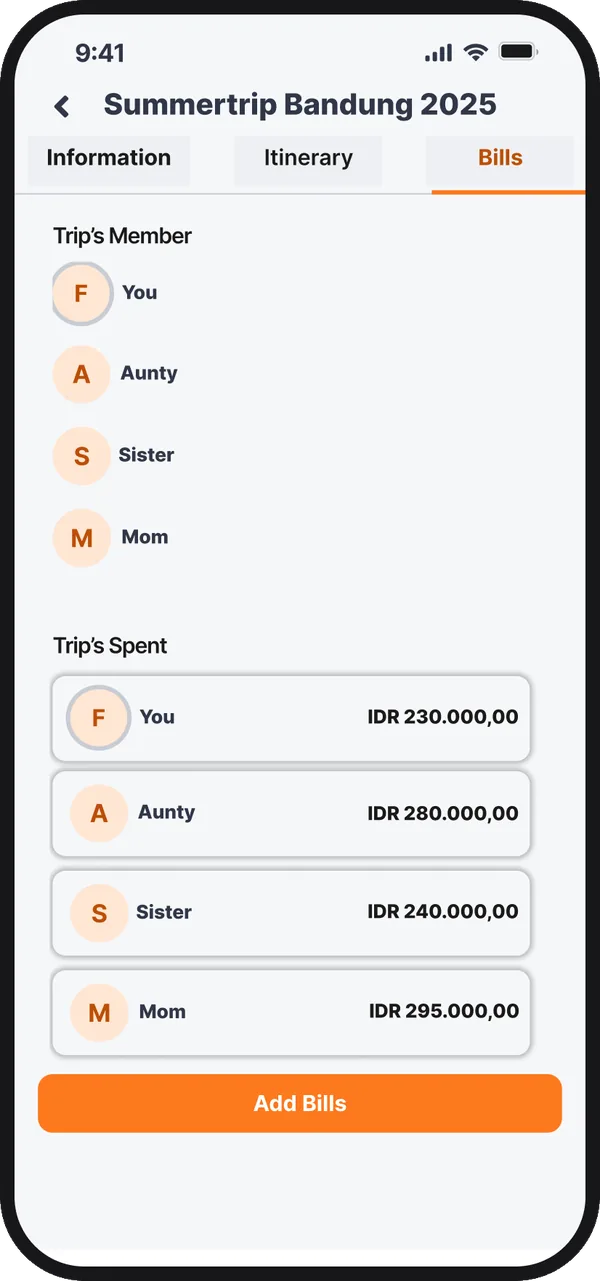
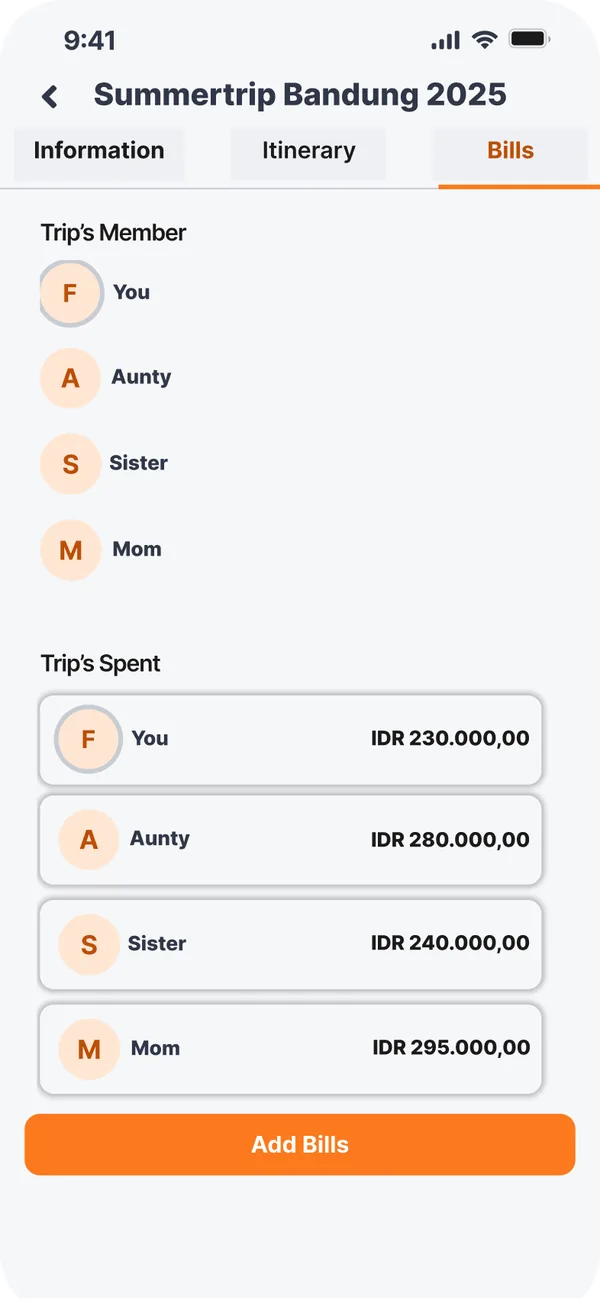
feat: frameless Holinery screens
Phones exported without a device bezel (rounded corners only); a new
optional figure.frameless adds a soft CSS drop shadow. Thumbnail now
shows the neutral hero with the orange accent panel.

Changed region(s): [[0.0, 0.0, 1.0, 1.0]]

diff --git a/src/content/caseStudies/holinery.js b/src/content/caseStudies/holinery.js
@@ -19,7 +19,7 @@ const phone = (name, alt, label) => ({
   alt,
   label,
   width: 600,
-  height: 1281,
+  height: 1316,
 });
 
 export const holinery = {
@@ -70,25 +70,25 @@ export const holinery = {
     stops: [
       { time: "08:00", label: "Explore", title: "Find a place worth going to",
         body: "Each row gives photo, area, rating, and a one-line description; the detail page adds address, phone number, and opening hours.",
-        figure: { images: [
+        figure: { frameless: true, images: [
           phone("explore-1", "Explore list of destinations with photos, areas, and descriptions", "Explore"),
           phone("explore-2", "Labuan Bajo destination detail with description and address", "Detail"),
         ] } },
       { time: "10:30", label: "Wishlist", title: "Keep it for later",
         body: "One tap on the heart saves a place, ready for the next plan.",
-        figure: { images: [ phone("explore-3", "Wishlist of saved places with heart buttons", "Wishlist") ] } },
+        figure: { frameless: true, images: [ phone("explore-3", "Wishlist of saved places with heart buttons", "Wishlist") ] } },
       { time: "12:15", label: "Create plan", title: "Start with the trip, not the places",
         body: "Name, dates, and travel partners come first; everything after hangs off this plan.",
-        figure: { images: [ phone("plan-1", "Create new plan form with trip name, dates, and travel partners", "Create plan") ] } },
+        figure: { frameless: true, images: [ phone("plan-1", "Create new plan form with trip name, dates, and travel partners", "Create plan") ] } },
       { time: "14:00", label: "Pick places", title: "Suggestions around where you stay",
         body: "Pick a province, city, and hotel; places near it are listed with ratings and an add button.",
-        figure: { images: [ phone("plan-2", "Places to visit in Bandung near Hotel Nusantara, each with an add button", "Pick places") ] } },
+        figure: { frameless: true, images: [ phone("plan-2", "Places to visit in Bandung near Hotel Nusantara, each with an add button", "Pick places") ] } },
       { time: "17:00", label: "Schedule", title: "The plan becomes a day-by-day schedule",
         body: "Each stop gets a time slot and a check mark, grouped under its date.",
-        figure: { images: [ phone("plan-3", "Itinerary tab with time slots grouped under 06 Jun and 07 Jun", "Itinerary") ] } },
+        figure: { frameless: true, images: [ phone("plan-3", "Itinerary tab with time slots grouped under 06 Jun and 07 Jun", "Itinerary") ] } },
       { time: "19:30", label: "Split bills", title: "Settle up inside the same trip",
         body: "Partners from the plan become bill members; each total expands into items, quantities, and prices.",
-        figure: { images: [
+        figure: { frameless: true, images: [
           phone("bills-1", "Bills tab listing trip members and each member’s total", "Bills"),
           phone("bills-2", "Expanded bill showing items, quantities, and prices for one member", "Bill detail"),
         ] } },

diff --git a/src/components/ui/Figure.jsx b/src/components/ui/Figure.jsx
@@ -26,7 +26,7 @@ function Placeholder({ alt, todo }) {
 // supaya tiap screen tetap terbaca di lebar penuh; di desktop tampil
 // berdampingan. Gambar sudah membawa bingkai perangkat dengan sudut
 // transparan, jadi tidak diberi border atau latar seperti gambar biasa.
-function Gallery({ images, caption }) {
+function Gallery({ images, caption, frameless }) {
   return (
     <figure>
       <div
@@ -47,7 +47,7 @@ function Gallery({ images, caption }) {
               height={image.height}
               loading="lazy"
               decoding="async"
-              className="h-auto w-full"
+              className={`h-auto w-full ${frameless ? "drop-shadow-[0_12px_24px_rgba(0,0,0,0.18)]" : ""}`}
             />
             {image.label ? (
               <p className="mt-2 text-center text-caption text-text-mute">
@@ -74,7 +74,7 @@ export function Figure({ figure, className = "" }) {
   if (images?.length) {
     return (
       <div className={className}>
-        <Gallery images={images} caption={caption} />
+        <Gallery images={images} caption={caption} frameless={figure.frameless} />
       </div>
     );
   }
